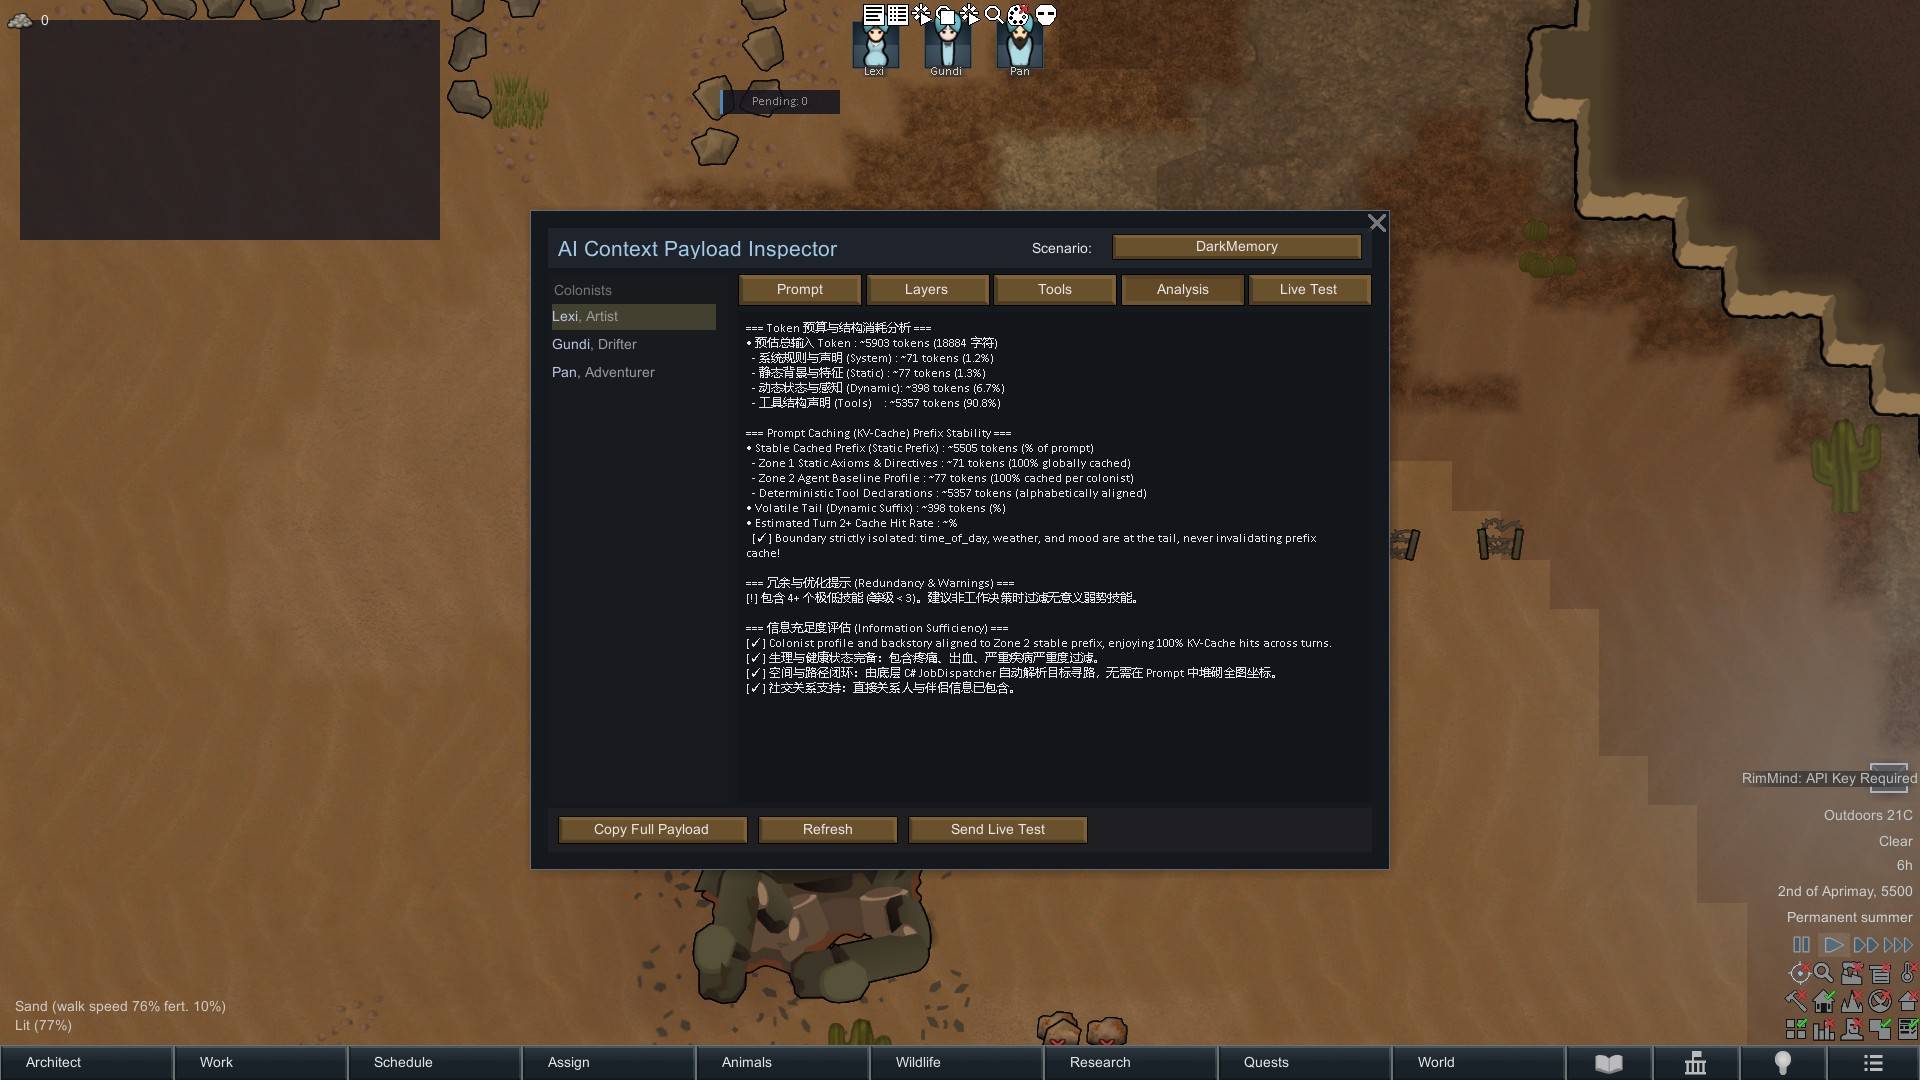
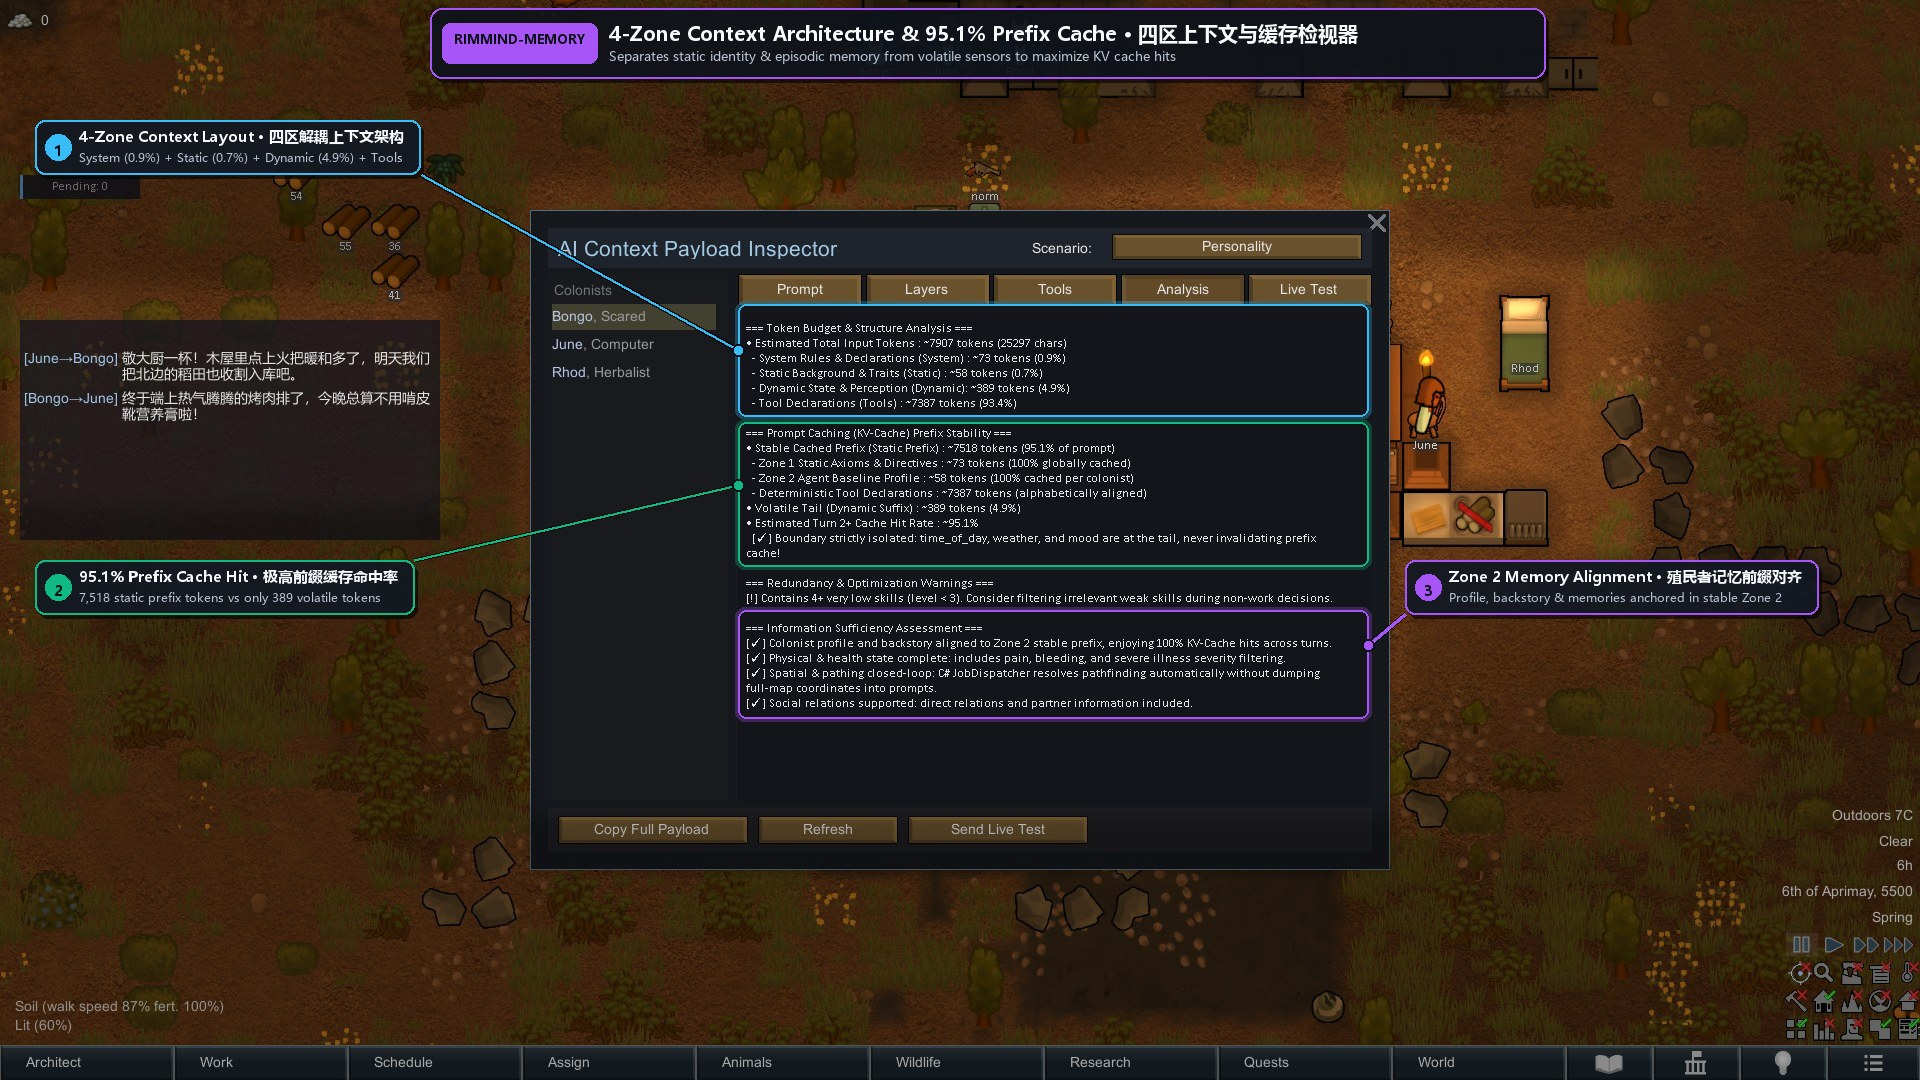
docs(showcase): update annotated in-game showcase image and bilingual captions (#22)
docs: update showcase caption to describe AI context payload inspector

Replace the memory inspection window description with the Analysis tab
breakdown covering the 4-Zone prompt architecture, KV-cache prefix hit
rate, and Zone 2 colonist profile alignment. Update both README and
README_zh, and refresh the showcase screenshot.

diff --git a/README_zh.md b/README_zh.md
@@ -32,7 +32,7 @@
 ## 🎮 实机特性展示
 
 ![RimMind-Memory 实机展示](docs/images/showcase.jpg)
-*记忆报文检视器界面：直观展示殖民者的感知记忆、情节纪事与深层暗记忆，支持按时间衰减与重点固定。*
+*AI 上下文报文检视器实机（`Analysis` 页签）：直观展示四区提示词解耦结构（`System`、`Static`、`Dynamic`、`Tools`）、高达 `~95.1%` 的静态前缀缓存命中率，以及锚定在 Zone 2 稳定前缀中的殖民者档案与三层记忆。*
 
 ---
 

diff --git a/README.md b/README.md
@@ -32,7 +32,7 @@
 ## 🎮 In-Game Showcase
 
 ![RimMind-Memory Showcase](docs/images/showcase.jpg)
-*Memory inspection window: Viewing a colonist's multi-layered memory chronicle, showing decayed sensory impressions alongside pinned life milestones.*
+*AI Context Payload Inspector (`Analysis` tab): Inspecting the 4-Zone prompt architecture breakdown (`System 0.9%`, `Static 0.7%`, `Dynamic 4.9%`, `Tools 93.4%`), `~95.1%` KV-cache prefix hit stability, and Zone 2 colonist profile/memory alignment.*
 
 ---
 
